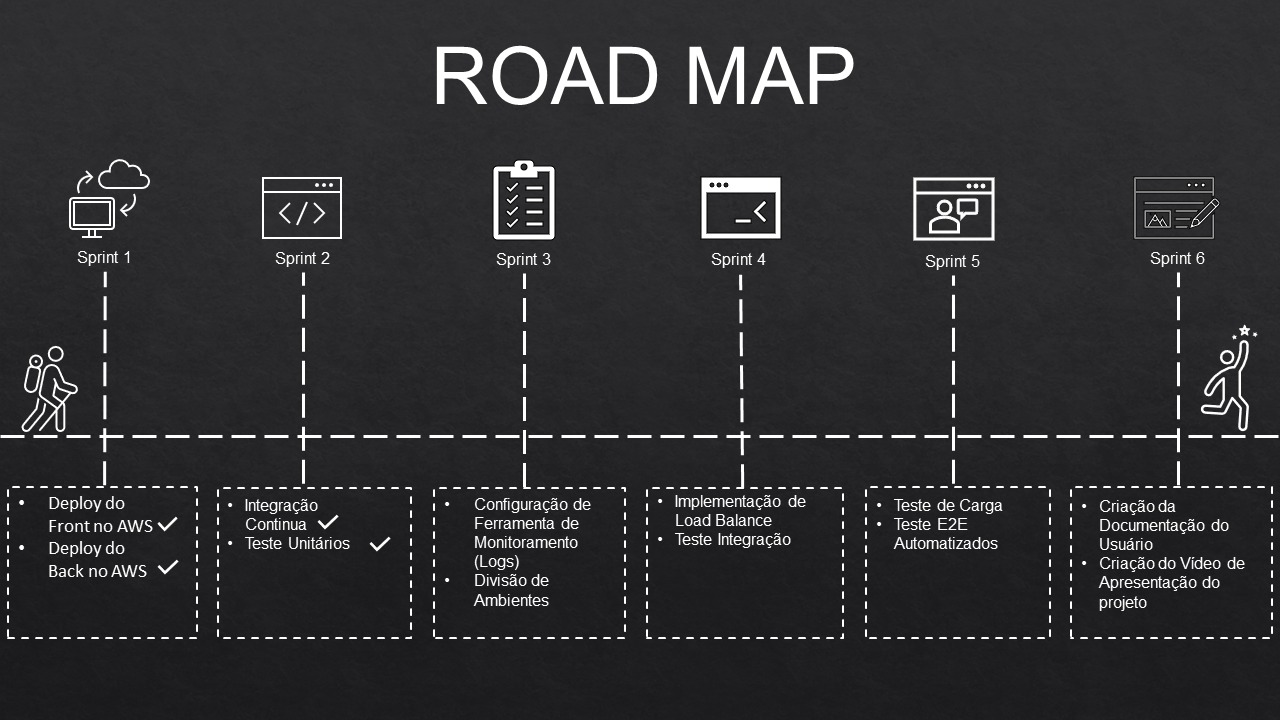
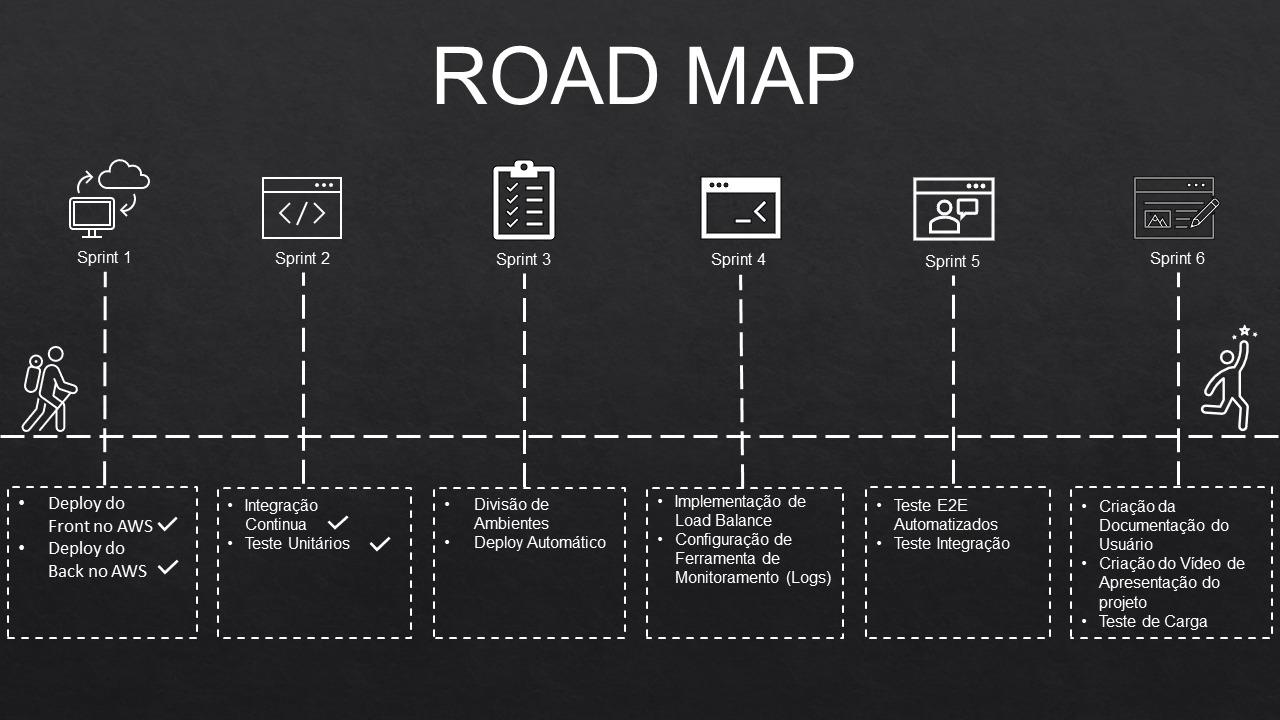
Atualização do README para Sprint 3

diff --git a/README.md b/README.md
@@ -57,6 +57,9 @@ Framework de testes automatizados end-to-end usando JavaScript, utilizada para r
 ### MongoDB Atlas
 Banco de dados em nuvem para MongoDB. A ferramenta foi escolhida por estar disponível via web e porque a infraestrutura, manutenção das máquinas e segurança não precisam de configuração manual.
 
+### Zabbix
+Uma ferramenta de software de monitoramento de código aberto para diversos componentes de TI, incluindo redes, servidores, máquinas virtuais e serviços em nuvem. O Zabbix fornece métricas de monitoramento, entre outras, utilização da rede, carga da CPU e consumo de espaço em disco.
+
 ## Road Map
 
 ![ilustração do road map](.github/images/roadmap.jpeg)
@@ -74,8 +77,8 @@ Banco de dados em nuvem para MongoDB. A ferramenta foi escolhida por estar dispo
 
 
 ### Sprint 03 – 18/10/2020
-- Divisão dos ambientes em homologação/desenvolvimento, QA/Testes e Produção;
-- Integração da ferramenta de monitoramento Zabbix para gerar logs; e
+- Divisão dos ambientes em homologação/desenvolvimento, QA/Testes e Produção: Essa divisão se faz necessária para que nenhuma funcionalidade seja desenvolvida e/ou testada no ambiente de produção e assim blindar o ambiente do cliente de qualquer problema. Essa divisão também é benéfica para que os desenvolvedores e testes saibam que o ambiente que estão utilizando se encontra da melhor forma possível;
+- Integração da ferramenta de monitoramento Zabbix para gerar logs: A geração de logs é importante para que possamos avaliar onde pode estar ocorrendo algum erro ou fazer o monitoramento do sistema para que se caso haja algum erro, seja possível identificar de forma rápida e precisa para uma correção mais acertiva; e
 - Deploy automático.
 
 
